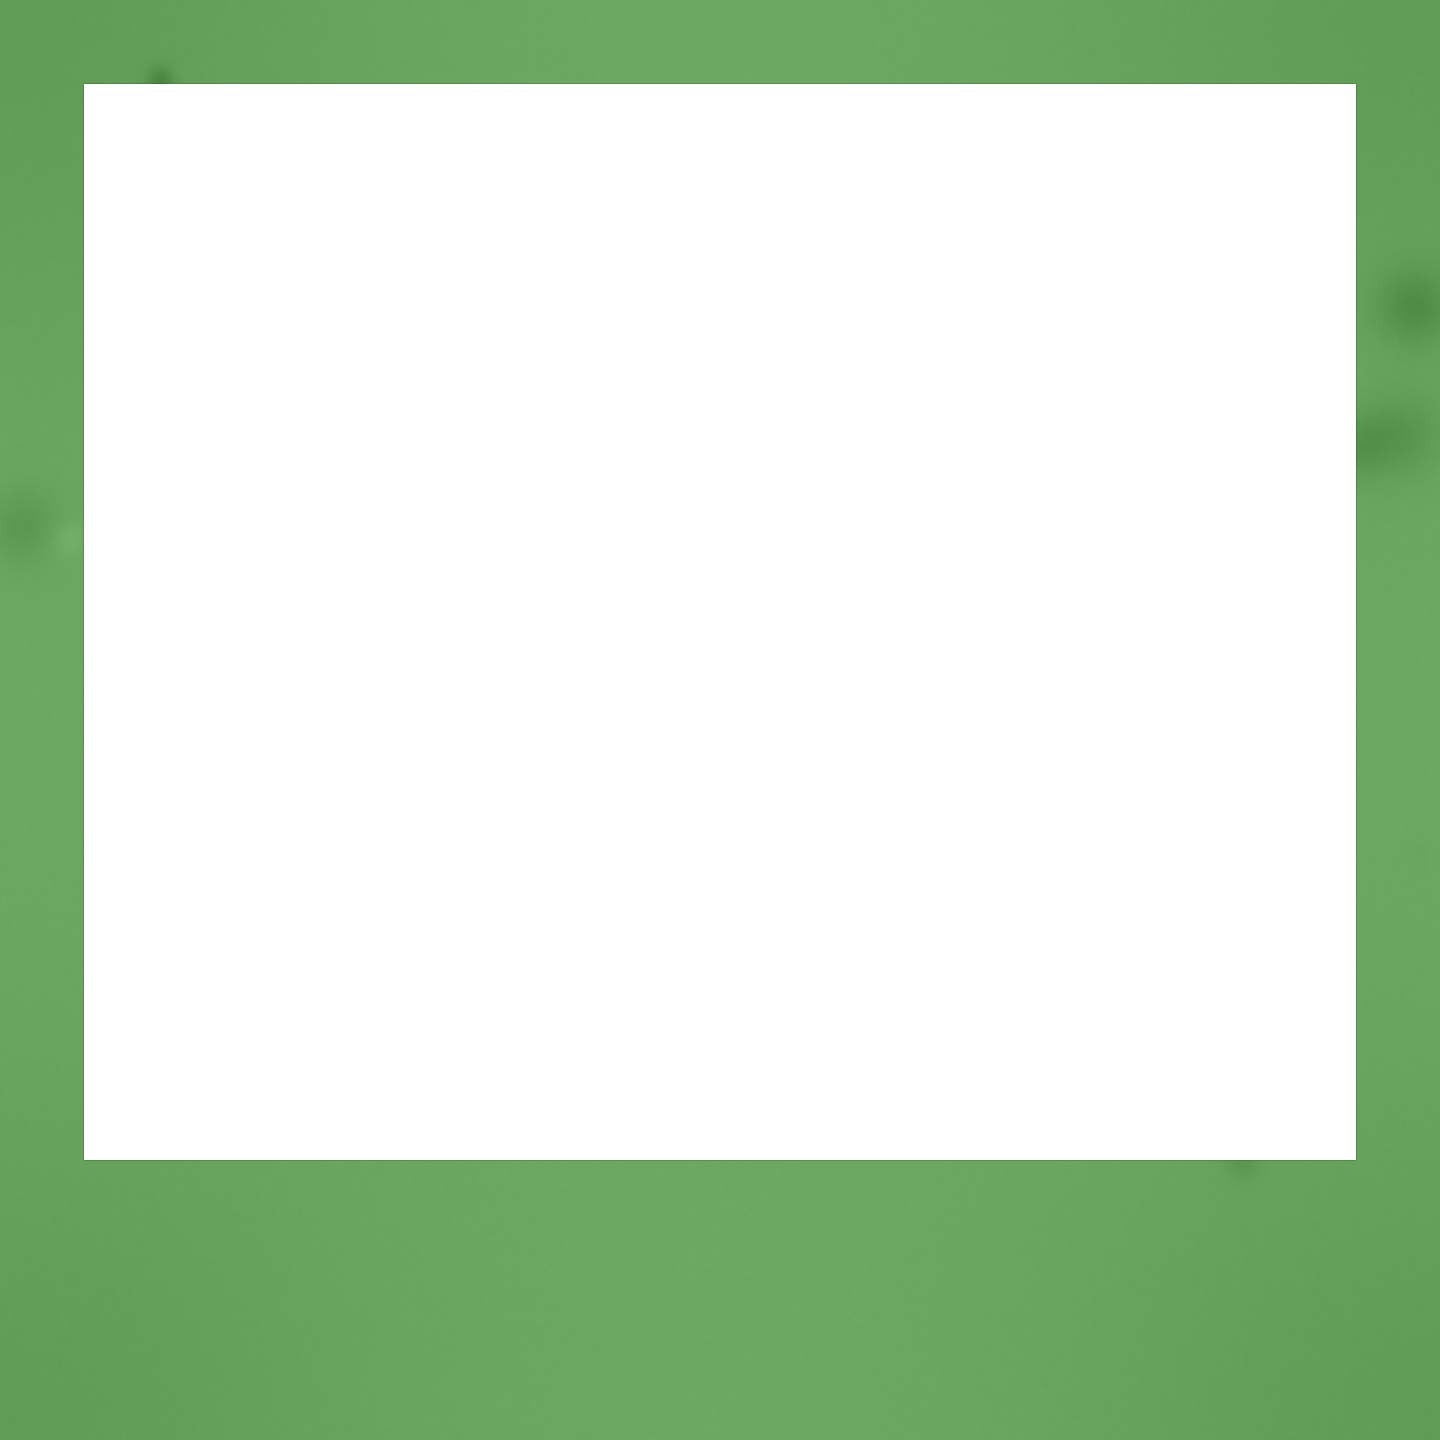
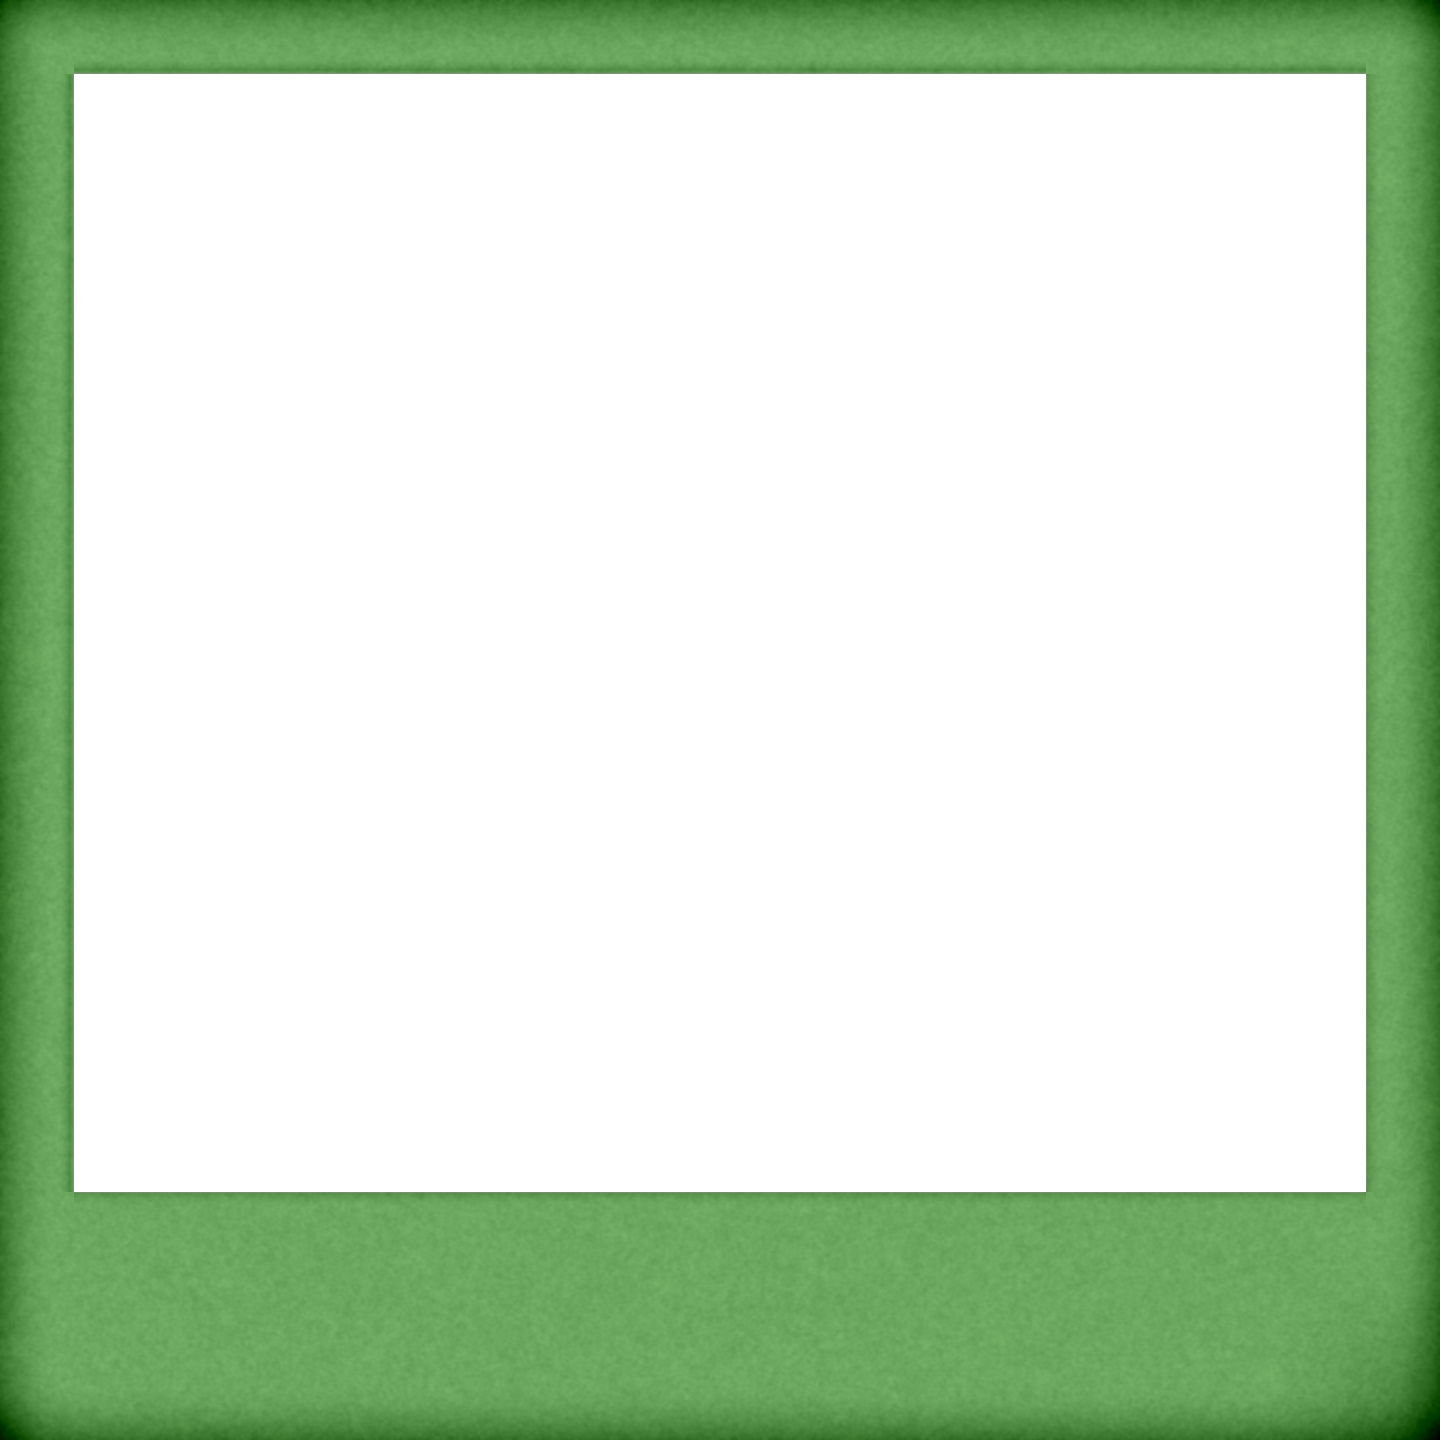
feat: 拟物相纸纹理+水印遮挡修复
- 重新生成4款拟物风格相纸（白/奶油/绿/紫）
  - 多频纤维噪点纹理（6层叠加，真实纸张感）
  - 边缘厚重阴影（外阴影+内嵌阴影，增加厚度感）
  - 角落翘边效果（右下角最明显）
  - 图片区域边缘高光（相纸厚边感）
  - 尺寸1440x1440，透明区域与JSON inset完全对应

- 修复水印被相框遮挡问题
  - 将水印绘制顺序从4e移到4g（相框纹理之后）
  - 确保日期水印始终在最上层，不被相框PNG遮挡
  - 修复1:1比例下水印被遮挡的必现bug

Changed region(s): [[0.0, 0.0, 1.0, 1.0]]

diff --git a/flutter_app/lib/features/camera/capture_pipeline.dart b/flutter_app/lib/features/camera/capture_pipeline.dart
@@ -9,7 +9,8 @@ import '../../models/camera_definition.dart';
 import 'preview_renderer.dart';
 
 /// 捕获后处理管线
-/// 顺序：比例裁剪 → 抖动模糊 → 颜色效果 → 暗角 → 漏光 → 水印 → 相框纹理PNG → 输出 PNG
+/// 顺序：比例裁剪 → 抖动模糊 → 颜色效果 → 暗角 → 漏光 → 相框纹理PNG → 水印 → 输出 PNG
+/// 注意：水印必须在相框纹理之后绘制，否则会被相框遮挡
 class CapturePipeline {
   final CameraDefinition camera;
 
@@ -155,10 +156,7 @@ class CapturePipeline {
         _drawLightLeak(canvas, leftPx, topPx, outW, outH, lightLeakStrength);
       }
 
-      // ── 4e. 水印（绘制在图片区域内，靠近边框内侧）──────────────────────────────
-      if (selectedWatermarkId.isNotEmpty && selectedWatermarkId != 'none') {
-        _drawWatermark(canvas, leftPx, topPx, outW, outH, selectedWatermarkId);
-      }
+      // ── 4e. 水印（移至4g，在相框纹理之后绘制）──────────────────────────────────
 
       // ── 4f. 相框纹理 PNG 叠加（绘制在最上层，覆盖整个画布）──────────────────────
       if (frameOpt != null && frameOpt.asset != null && frameOpt.asset!.isNotEmpty) {
@@ -182,6 +180,11 @@ class CapturePipeline {
         } catch (e) {
           debugPrint('[CapturePipeline] frame asset load error: $e');
         }
+      }
+
+      // ── 4g. 水印（在相框纹理之后绘制，确保始终在最上层不被遮挡）────────────────
+      if (selectedWatermarkId.isNotEmpty && selectedWatermarkId != 'none') {
+        _drawWatermark(canvas, leftPx, topPx, outW, outH, selectedWatermarkId);
       }
 
       // ── 5. 输出为 PNG ────────────────────────────────────────────────────────
